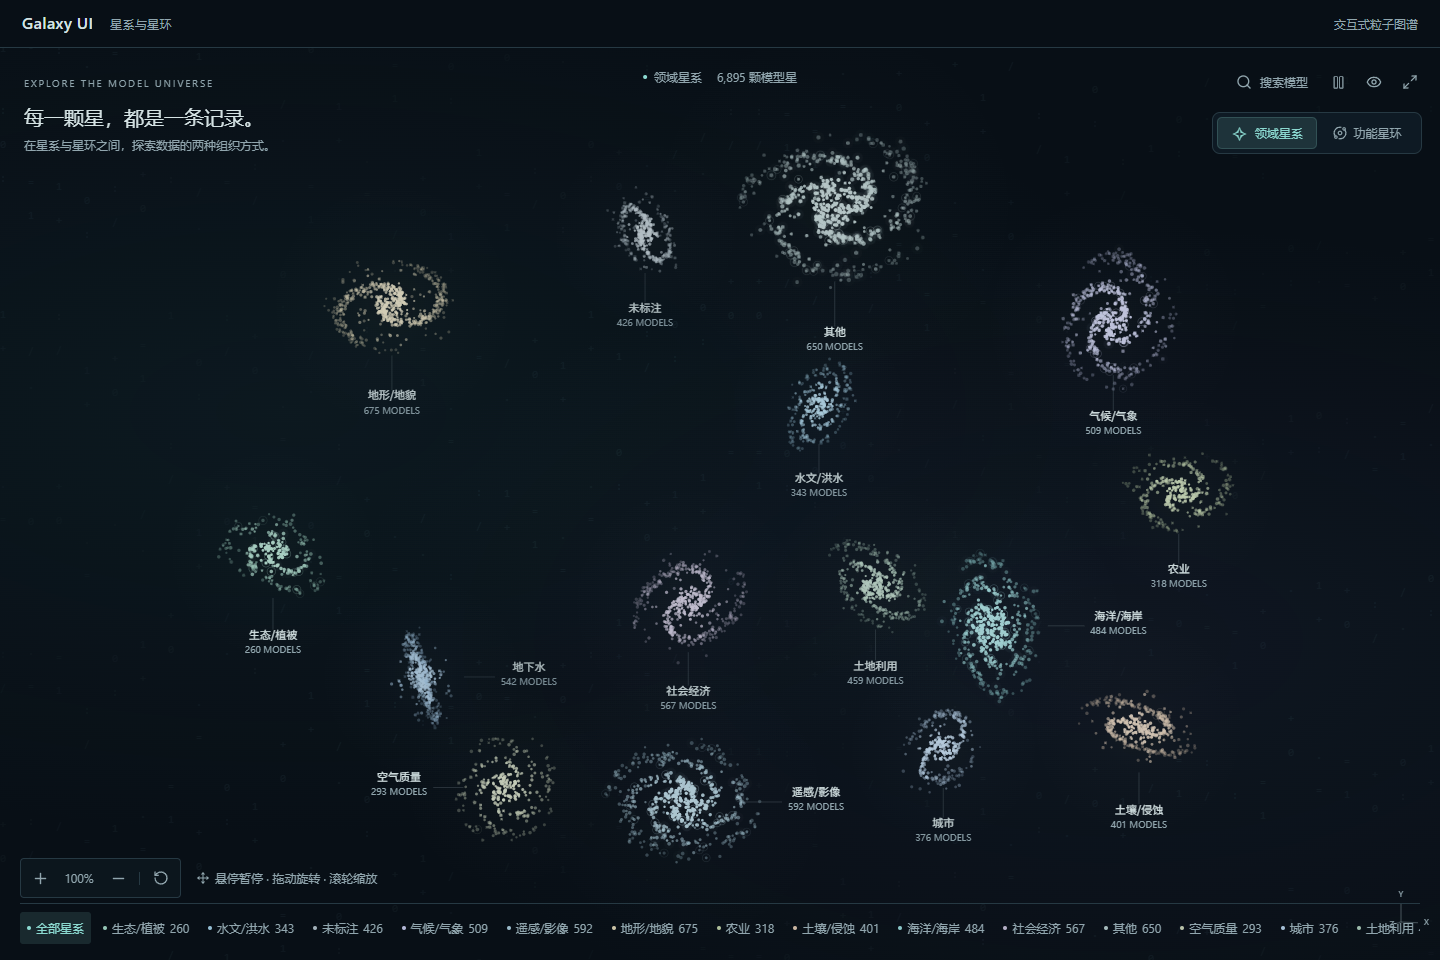
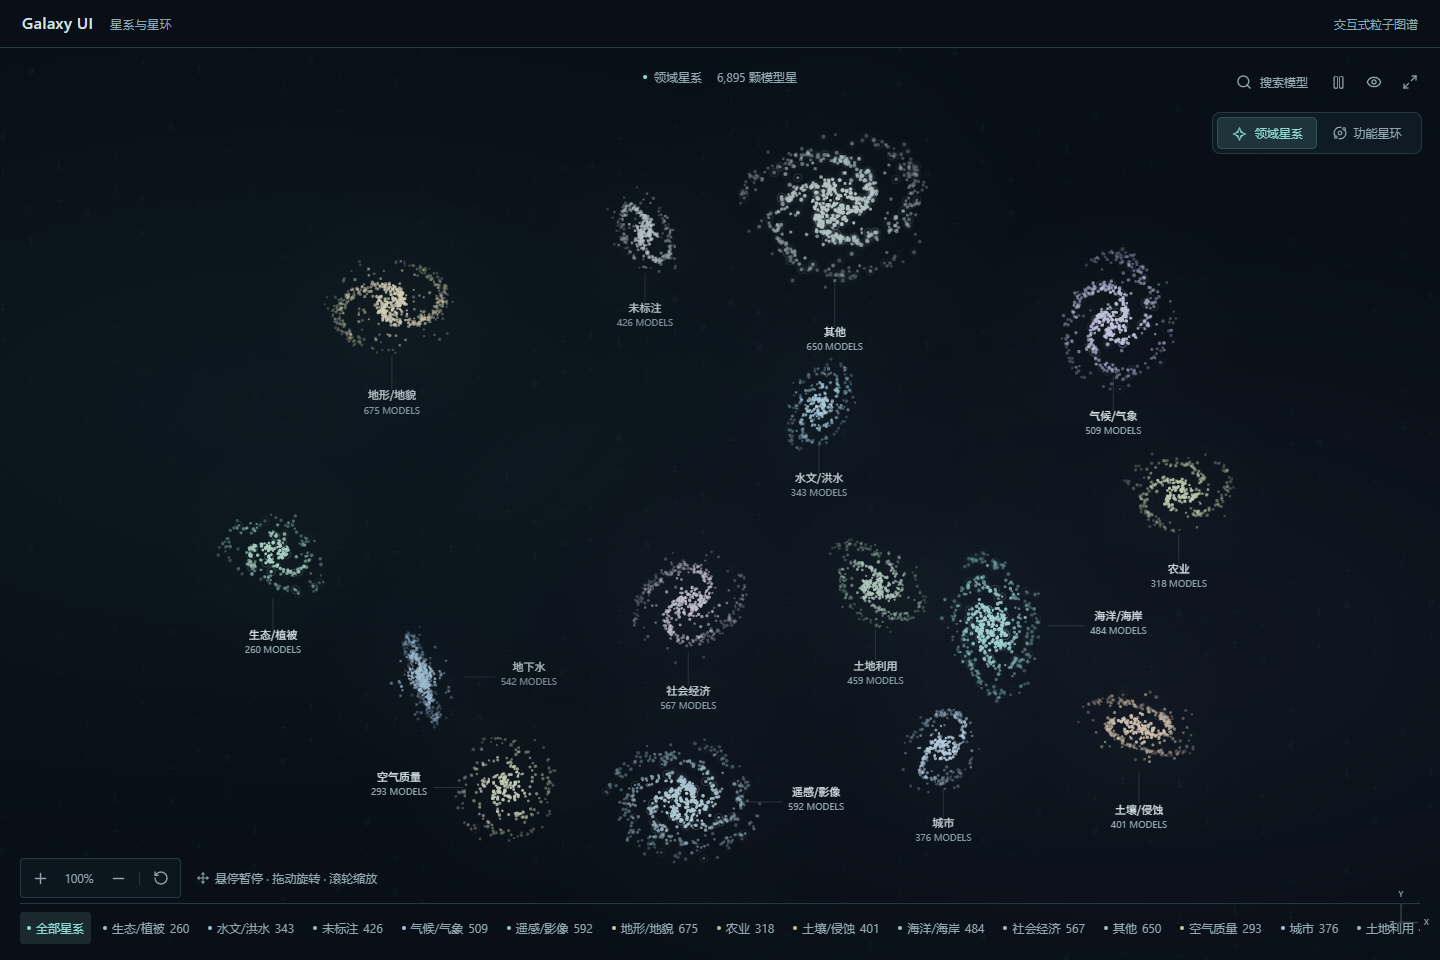
Remove introductory text from galaxy canvas

diff --git a/src/style.css b/src/style.css
@@ -148,10 +148,6 @@ button {
 .demo-status button { border: 1px solid var(--control-border); padding: 8px 16px; border-radius: 6px; }
 .ambient-background { position: absolute; inset: 0; pointer-events: none; background: radial-gradient(ellipse at 20% 40%, rgba(44, 96, 102, .12), transparent 55%), radial-gradient(ellipse at 78% 65%, rgba(64, 73, 108, .13), transparent 50%); }
 .ambient-background canvas { width: 100%; height: 100%; display: block; }
-.galaxy-intro { position: absolute; z-index: 2; top: 24px; left: 24px; pointer-events: none; }
-.galaxy-intro > span { color: var(--muted); font-size: 10px; letter-spacing: .18em; }
-.galaxy-intro p { margin: 12px 0 6px; font-size: 20px; color: var(--ink); }
-.galaxy-intro small { color: var(--muted); font-size: 12px; }
 .galaxy-detail-rail h2 { font-size: 17px; line-height: 1.6; margin: 0 0 8px; overflow-wrap: anywhere; }
 .model-id { font-family: monospace; color: var(--muted); font-size: 12px; }
 .model-fields { display: grid; grid-template-columns: auto 1fr; gap: 14px 16px; font-size: 13px; }
@@ -160,7 +156,4 @@ button {
 @media (max-width: 599px) {
   .demo-header { padding: 0 12px; }
   .demo-header > span { display: none; }
-  .galaxy-intro { top: 14px; left: 12px; }
-  .galaxy-intro p { font-size: 15px; margin: 6px 0; }
-  .galaxy-intro small { display: none; }
 }

diff --git a/src/Galaxy.tsx b/src/Galaxy.tsx
@@ -121,7 +121,6 @@ export default function Galaxy({ models, onSelectionChange }: GalaxyProps): Reac
         <div className="galaxy-viewport" ref={hostRef}>
           <AmbientBackground paused={paused} />
           <canvas className="galaxy-star-canvas" ref={canvasRef} tabIndex={0} aria-label="三维星图。拖动旋转，Shift加拖动或右键拖动平移，滚轮或双指缩放。方向键旋转，加减键缩放，Home恢复全景。可通过搜索和分类按钮选择模型。" />
-          <div className="galaxy-intro"><span>EXPLORE THE MODEL UNIVERSE</span><p>每一颗星，都是一条记录。</p><small>在星系与星环之间，探索数据的两种组织方式。</small></div>
           <div className="galaxy-taxonomy" role="group" aria-label="星图分类体系">
             <span className="galaxy-taxonomy-thumb" aria-hidden="true" />
             <button aria-pressed={taxonomy === 'domain'} onClick={() => switchTaxonomy('domain')}><span className="taxonomy-spiral" aria-hidden="true">✧</span>领域星系</button>
